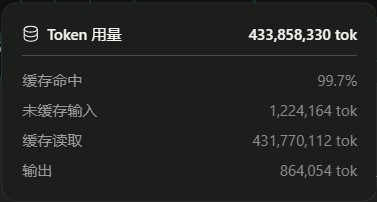
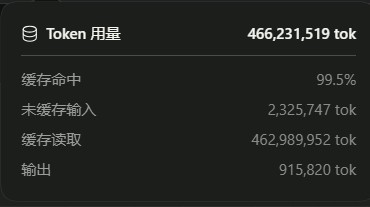
Update README

diff --git a/README.md b/README.md
@@ -2,7 +2,7 @@
 
 一个适用于 Ollama 的 AI 模型下载器（Windows 桌面程序）。
 
-> 项目由 DeepSeek-V4.1-flash 制作。（怒烧4亿3千万token，我无疑是难绷的）
+> 项目由 DeepSeek-V4.1-flash 制作。（怒烧4亿6千万token，我无疑是难绷的）
 
 ![DeepSeek token](./images/token.jpg)
 
